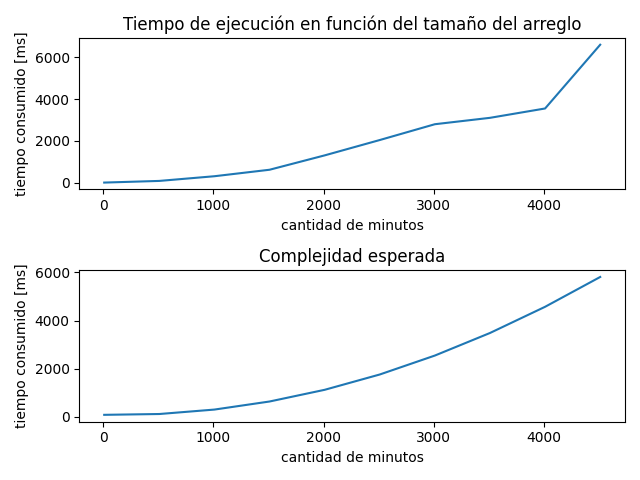
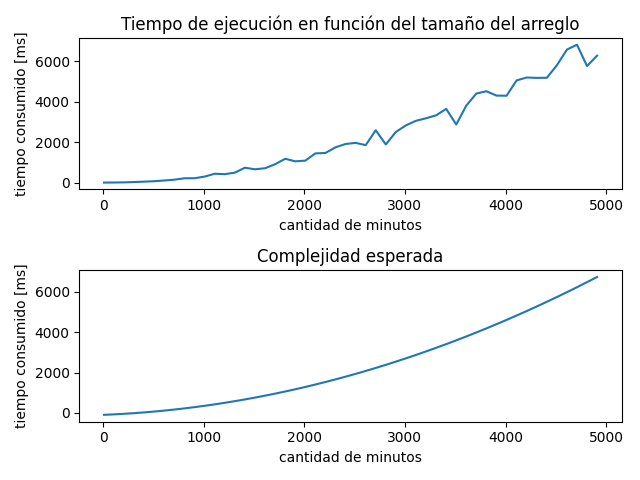
update plot

diff --git a/plot.py b/plot.py
@@ -6,7 +6,8 @@ from main import obtener_optimos, construir_estrategia
 import matplotlib.pyplot as plt
 import numpy as np
 
-TAM_MUESTRA = 7 # Numeros mas grandes tardaban demasiado
+TAM_MUESTRA = 5 # Numeros mas grandes tardaban demasiado
+MAX_ENEMIGOS = 1000000 # Numero muy grande, para que funcione randrange
 
 def ajuste(x, a, b, c):
     return a*x**2 + b*x + c
@@ -29,7 +30,7 @@ def obtener_tiempo(n):
     return tiempo_acumulado/TAM_MUESTRA
 
 
-tamanio_datos = np.arange(10, 5000, 500)
+tamanio_datos = np.arange(10, 5000, 100)
 fun = np.frompyfunc(obtener_tiempo, 1, 1)
 tiempos_ejecucion = fun(tamanio_datos)
 popt, _ = curve_fit(ajuste, tamanio_datos, tiempos_ejecucion)

diff --git a/utils.py b/utils.py
@@ -1,6 +1,6 @@
 from random import randrange
 
-MAXIMO_PODER =1000000 # Para que funcione randrange
+MAXIMO_PODER = 1000000 # Para que funcione randrange
 
 def calcular_tropas_eliminadas(enemigos, potencias, estrategia):
         cant_tropas = 0
